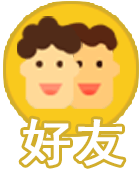
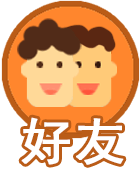
更换主页和好友面板里 好友图标

diff --git a/assets/New/Scripts/Game2.js b/assets/New/Scripts/Game2.js
@@ -364,6 +364,11 @@ cc.Class({
         this._money = num;
         // this.txtMoney.string = this._money.toString();
     },
+    //设置鸡蛋进度
+    setProEgg(pro) {
+        this.proEgg.progress = pro;
+        // this.proEgg.node.getChildByName("text").getComponent(cc.Label).string = parseInt(pro * 100).toString();
+    },
 
     //洗澡
     bath() {
@@ -454,6 +459,10 @@ cc.Class({
     //显示个人日志信息
     onShowPanelDetail() {
         this.panels.createPanel(this.prePanelDetail, "PanelDetail");
+    },
+    //播放升级动画
+    onPlayLevelUp() {
+        // this.node.getChildByName("PanelLevelUp").getComponent("PanelLevelUp").show();
     },
 
 });

diff --git a/assets/New/Scripts/Player2.js b/assets/New/Scripts/Player2.js
@@ -189,4 +189,7 @@ cc.Class({
     setTittivate(data){
         this._tittivate=data;
     },
+    setPlayerCondition(){
+
+    },
 });
